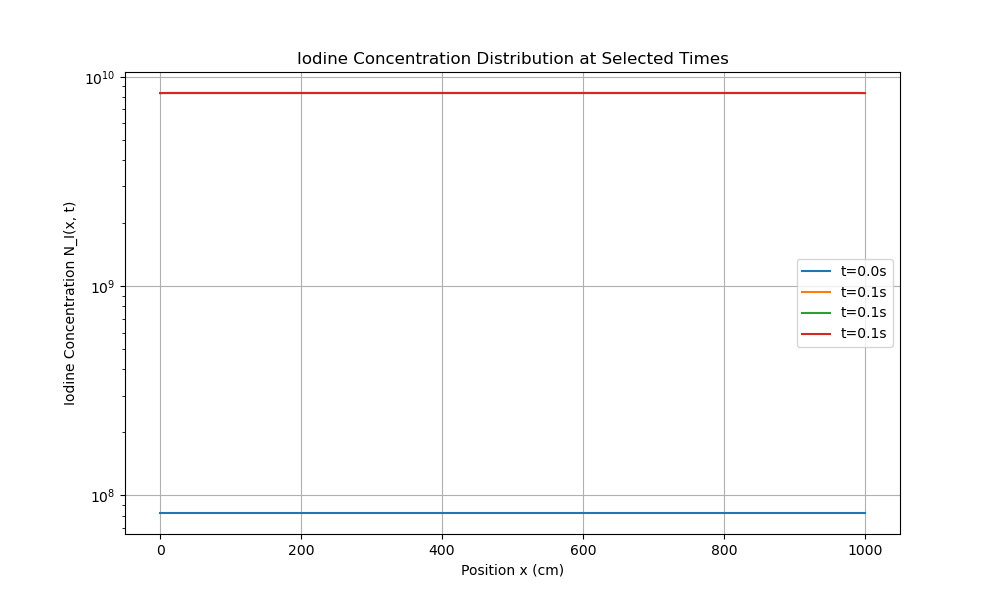
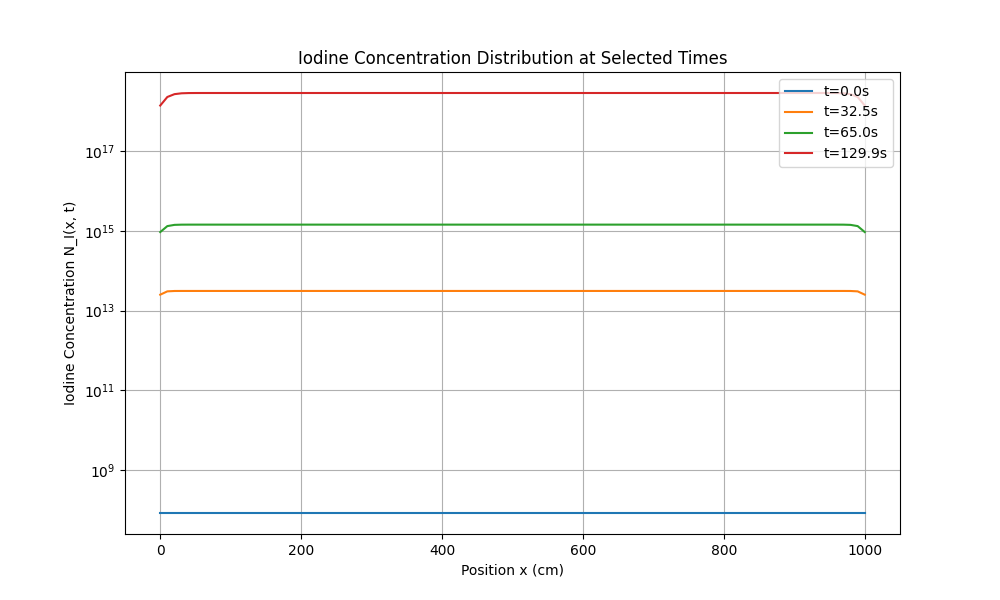
小改动

diff --git a/main.py b/main.py
@@ -9,8 +9,8 @@ logging.basicConfig(level=logging.INFO, format='%(asctime)s - %(levelname)s - %(
 
 # 参数定义
 # 空间域
-L = 1000  # 一维空间长度，单位cm
-nx = 100  # 增加空间离散点数以提高空间分辨率
+L = 100  # 一维空间长度，单位cm
+nx = 40  # 增加空间离散点数以提高空间分辨率
 dx = L / (nx - 1)
 x = np.linspace(0, L, nx)
 
@@ -29,7 +29,7 @@ gamma_Xe = 0.228e-2  # Xe-135的产额
 lambda_I = 2.87e-5   # I-135的衰变常数，s⁻¹
 lambda_Xe = 2.09e-5  # Xe-135的衰变常数，s⁻¹
 beta = 0.0065        # 缓发中子产额
-Lambda = 0.0001      # 中子寿命，s⁻¹
+Lambda = 0.0003      # 中子寿命，s⁻¹
 rho_0 = 0            # 初始反应性
 Delta_rho_Xe = 0.000  # Xe引起的反应性变化
 v = 220000               # 中子速度，cm/s
@@ -71,9 +71,8 @@ def compute_phi_derivative(phi, rho, beta, Lambda, N_Xe):
     # 计算二阶导数
     d2phi_dx2 = (phi_extended[2:] - 2 * phi_extended[1:-1] + phi_extended[:-2]) / dx**2
 
-    # 计算 dphi/dt
+    # 计算 dphi/dt ，暂时不考虑缓发中子
     dphi_dt = D * d2phi_dx2 - sigma_a_Xe * N_Xe * phi + nu * Sigma_f * phi
-    # 如果需要包含其他项，可以取消注释并调整
     # dphi_dt = (D * d2phi_dx2 - sigma_a_Xe * N_Xe * phi + nu * Sigma_f * phi 
     #            - ((rho - beta) / Lambda) * phi)
 
@@ -84,13 +83,13 @@ def iodine_xenon_dynamics(phi, N_I, N_Xe):
     dN_Xe_dt = lambda_I * N_I + gamma_Xe * Sigma_f * phi - (lambda_Xe + sigma_a_Xe * phi) * N_Xe
     return dN_I_dt, dN_Xe_dt
 
-# 收敛参数定义
-convergence_tol = 1e3  # 定义收敛的容忍度（根据问题规模调整）
-convergence_steps = 100  # 连续满足收敛条件的步数
+# 收敛参数定义，暂时没有用到，也不知道怎么用
+convergence_tol = 1e6  # 定义收敛的容忍度（根据问题规模调整）
+convergence_steps = 10  # 连续满足收敛条件的步数
 convergence_window = []  # 用于记录最近的变化量
 
 # 最大迭代步数（可根据需要调整）
-max_steps = 170000
+max_steps = 145000
 
 # 时间循环
 for t_step in range(max_steps):
@@ -110,7 +109,7 @@ for t_step in range(max_steps):
     # 数据验证
     if np.any(np.isnan(phi_new)) or np.any(np.isinf(phi_new)):
         logging.error(f'Invalid values detected in phi at time step {t_step}, time {current_time:.2f}s')
-        break  # 或者采取其他错误处理措施
+        break 
 
     if np.any(np.isnan(N_I_new)) or np.any(np.isinf(N_I_new)):
         logging.error(f'Invalid values detected in N_I at time step {t_step}, time {current_time:.2f}s')
@@ -175,11 +174,6 @@ for t_step in range(max_steps):
         time_history[current_store] = current_time
         current_store += 1
 
-    # 不稳定性检测（例如，变量超过一定范围）
-    if np.any(phi > 1e20) or np.any(N_I > 1e10) or np.any(N_Xe > 1e10):
-        logging.error(f'Variables exceeded physical limits at time step {t_step}, time {current_time:.2f}s')
-        break
-
 # 处理最后一步（如果未存储）
 if current_store < stored_steps:
     phi_history[current_store] = phi
@@ -228,7 +222,7 @@ if np.any(np.isnan(time_history)) or np.any(np.isinf(time_history)):
 
 # 选择绘图时使用的时间点
 # 例如，绘制初始、中间和结束时刻
-plot_times = [0, max_steps * delta_t / 4, max_steps * delta_t / 2, max_steps * delta_t]  
+plot_times = [0, max_steps * delta_t / 4, max_steps * delta_t / 2, max_steps * delta_t*9/10, (max_steps-1000 )* delta_t,max_steps * delta_t ]  
 
 plot_indices = []
 for t in plot_times:
@@ -243,144 +237,130 @@ output_dir = 'results'
 if not os.path.exists(output_dir):
     os.makedirs(output_dir)
 
+# 创建子图
+fig, axs = plt.subplots(3, 2, figsize=(15, 18))
+
 # 绘制中子通量φ(x, t)的分布
-plt.figure(figsize=(10, 6))
 for idx, t in zip(plot_indices, plot_times):
-    plt.plot(x, phi_history[idx], label=f't={time_history[idx]:.1f}s')
-plt.xlabel('Position x (cm)')
-plt.ylabel('Neutron Flux φ(x, t) (neutrons/cm²/s)')
-plt.yscale('log')
-plt.title('Neutron Flux Distribution at Selected Times')
-plt.legend()
-plt.grid(True)
-plt.savefig(os.path.join(output_dir, 'Neutron_Flux_Distribution_Selected_Times.png'))
-# plt.show()
+    axs[0, 0].plot(x, phi_history[idx], label=f't={time_history[idx]:.1f}s')
+axs[0, 0].set_xlabel('Position x (cm)')
+axs[0, 0].set_ylabel('Neutron Flux φ(x, t) (neutrons/cm²/s)')
+axs[0, 0].set_yscale('log')
+axs[0, 0].set_title('Neutron Flux Distribution at Selected Times')
+axs[0, 0].legend()
+axs[0, 0].grid(True)
 
 # 绘制I-135浓度分布
-plt.figure(figsize=(10, 6))
 for idx, t in zip(plot_indices, plot_times):
-    plt.plot(x, N_I_history[idx], label=f't={time_history[idx]:.1f}s')
-plt.xlabel('Position x (cm)')
-plt.ylabel('Iodine Concentration N_I(x, t)')
-plt.yscale('log')
-plt.title('Iodine Concentration Distribution at Selected Times')
-plt.legend()
-plt.grid(True)
-plt.savefig(os.path.join(output_dir, 'Iodine_Concentration_Distribution_Selected_Times.png'))
-# plt.show()
+    axs[0, 1].plot(x, N_I_history[idx], label=f't={time_history[idx]:.1f}s')
+axs[0, 1].set_xlabel('Position x (cm)')
+axs[0, 1].set_ylabel('Iodine Concentration N_I(x, t)')
+axs[0, 1].set_yscale('log')
+axs[0, 1].set_title('Iodine Concentration Distribution at Selected Times')
+axs[0, 1].legend()
+axs[0, 1].grid(True)
 
 # 绘制Xe-135浓度分布
-plt.figure(figsize=(10, 6))
 for idx, t in zip(plot_indices, plot_times):
-    plt.plot(x, N_Xe_history[idx], label=f't={time_history[idx]:.1f}s')
-plt.xlabel('Position x (cm)')
-plt.ylabel('Xenon-135 Concentration N_Xe(x, t)')
-plt.yscale('log')
-plt.title('Xenon-135 Concentration Distribution at Selected Times')
-plt.legend()
-plt.grid(True)
-plt.savefig(os.path.join(output_dir, 'Xenon135_Concentration_Distribution_Selected_Times.png'))
-# plt.show()
+    axs[1, 0].plot(x, N_Xe_history[idx], label=f't={time_history[idx]:.1f}s')
+axs[1, 0].set_xlabel('Position x (cm)')
+axs[1, 0].set_ylabel('Xenon-135 Concentration N_Xe(x, t)')
+axs[1, 0].set_yscale('log')
+axs[1, 0].set_title('Xenon-135 Concentration Distribution at Selected Times')
+axs[1, 0].legend()
+axs[1, 0].grid(True)
 
-
-# 使用热图显示随时间和空间变化的分布
 # 中子通量热图
-plt.figure(figsize=(10, 6))
 extent = [x.min(), x.max(), time_history.min(), time_history.max()]
-plt.imshow(phi_history, aspect='auto', extent=extent, origin='lower', cmap='viridis')
-plt.colorbar(label='Neutron Flux φ(x, t) (neutrons/cm²/s)')
-plt.xlabel('Position x (cm)')
-plt.ylabel('Time t (s)')
-plt.title('Neutron Flux Distribution Over Time')
-plt.savefig(os.path.join(output_dir, 'Neutron_Flux_Heatmap.png'))
-plt.show()
+im1 = axs[1, 1].imshow(phi_history, aspect='auto', extent=extent, origin='lower', cmap='viridis')
+fig.colorbar(im1, ax=axs[1, 1], label='Neutron Flux φ(x, t) (neutrons/cm²/s)')
+axs[1, 1].set_xlabel('Position x (cm)')
+axs[1, 1].set_ylabel('Time t (s)')
+axs[1, 1].set_title('Neutron Flux Distribution Over Time')
 
 # I-135浓度热图
-plt.figure(figsize=(10, 6))
-plt.imshow(N_I_history, aspect='auto', extent=extent, origin='lower', cmap='plasma')
-plt.colorbar(label='Iodine Concentration N_I(x, t)')
-plt.xlabel('Position x (cm)')
-plt.ylabel('Time t (s)')
-plt.title('Iodine Concentration Distribution Over Time')
-plt.savefig(os.path.join(output_dir, 'Iodine_Concentration_Heatmap.png'))
-plt.show()
+im2 = axs[2, 0].imshow(N_I_history, aspect='auto', extent=extent, origin='lower', cmap='plasma')
+fig.colorbar(im2, ax=axs[2, 0], label='Iodine Concentration N_I(x, t)')
+axs[2, 0].set_xlabel('Position x (cm)')
+axs[2, 0].set_ylabel('Time t (s)')
+axs[2, 0].set_title('Iodine Concentration Distribution Over Time')
 
 # Xe-135浓度热图
-plt.figure(figsize=(10, 6))
-plt.imshow(N_Xe_history, aspect='auto', extent=extent, origin='lower', cmap='inferno')
-plt.colorbar(label='Xenon-135 Concentration N_Xe(x, t)')
-plt.xlabel('Position x (cm)')
-plt.ylabel('Time t (s)')
-plt.title('Xenon-135 Concentration Distribution Over Time')
-plt.savefig(os.path.join(output_dir, 'Xenon135_Concentration_Heatmap.png'))
+im3 = axs[2, 1].imshow(N_Xe_history, aspect='auto', extent=extent, origin='lower', cmap='inferno')
+fig.colorbar(im3, ax=axs[2, 1], label='Xenon-135 Concentration N_Xe(x, t)')
+axs[2, 1].set_xlabel('Position x (cm)')
+axs[2, 1].set_ylabel('Time t (s)')
+axs[2, 1].set_title('Xenon-135 Concentration Distribution Over Time')
+
+plt.tight_layout()
+plt.savefig(os.path.join(output_dir, 'Combined_Plots.png'))
 plt.show()
 
+# # 设置全局绘图样式
+# plt.style.use('ggplot')
 
-# 设置全局绘图样式
-plt.style.use('ggplot')
+# # 创建中子通量动画
+# def create_flux_animation(x, phi_history, time_history, output_path):
+#     fig, ax = plt.subplots(figsize=(10, 6))
 
-# 创建中子通量动画
-def create_flux_animation(x, phi_history, time_history, output_path):
-    fig, ax = plt.subplots(figsize=(10, 6))
+#     def animate(i):
+#         ax.clear()
+#         ax.plot(x, phi_history[i], color='blue')
+#         ax.set_xlabel('Position x (cm)')
+#         ax.set_ylabel('Neutron Flux φ(x, t) (neutrons/cm²/s)')
+#         ax.set_yscale('log')
+#         ax.set_title(f'Neutron Flux Distribution at t={time_history[i]:.1f} s')
+#         ax.grid(True)
 
-    def animate(i):
-        ax.clear()
-        ax.plot(x, phi_history[i], color='blue')
-        ax.set_xlabel('Position x (cm)')
-        ax.set_ylabel('Neutron Flux φ(x, t) (neutrons/cm²/s)')
-        ax.set_yscale('log')
-        ax.set_title(f'Neutron Flux Distribution at t={time_history[i]:.1f} s')
-        ax.grid(True)
+#     flux_anim = animation.FuncAnimation(fig, animate, frames=len(time_history), interval=10)
+#     flux_anim.save(output_path, writer='imagemagick')
+#     plt.close(fig)
 
-    flux_anim = animation.FuncAnimation(fig, animate, frames=len(time_history), interval=10)
-    flux_anim.save(output_path, writer='imagemagick')
-    plt.close(fig)
+# # 创建I-135浓度动画
+# def create_I_concentration_animation(x, N_I_history, time_history, output_path):
+#     fig, ax = plt.subplots(figsize=(10, 6))
 
-# 创建I-135浓度动画
-def create_I_concentration_animation(x, N_I_history, time_history, output_path):
-    fig, ax = plt.subplots(figsize=(10, 6))
+#     def animate(i):
+#         ax.clear()
+#         ax.plot(x, N_I_history[i], color='green')
+#         ax.set_xlabel('Position x (cm)')
+#         ax.set_ylabel('Iodine Concentration N_I(x, t)')
+#         ax.set_yscale('log')
+#         ax.set_title(f'Iodine Concentration Distribution at t={time_history[i]:.1f} s')
+#         ax.grid(True)
 
-    def animate(i):
-        ax.clear()
-        ax.plot(x, N_I_history[i], color='green')
-        ax.set_xlabel('Position x (cm)')
-        ax.set_ylabel('Iodine Concentration N_I(x, t)')
-        ax.set_yscale('log')
-        ax.set_title(f'Iodine Concentration Distribution at t={time_history[i]:.1f} s')
-        ax.grid(True)
+#     I_anim = animation.FuncAnimation(fig, animate, frames=len(time_history), interval=10)
+#     I_anim.save(output_path, writer='imagemagick')
+#     plt.close(fig)
 
-    I_anim = animation.FuncAnimation(fig, animate, frames=len(time_history), interval=10)
-    I_anim.save(output_path, writer='imagemagick')
-    plt.close(fig)
+# # 创建Xe-135浓度动画
+# def create_Xe_concentration_animation(x, N_Xe_history, time_history, output_path):
+#     fig, ax = plt.subplots(figsize=(10, 6))
 
-# 创建Xe-135浓度动画
-def create_Xe_concentration_animation(x, N_Xe_history, time_history, output_path):
-    fig, ax = plt.subplots(figsize=(10, 6))
+#     def animate(i):
+#         ax.clear()
+#         ax.plot(x, N_Xe_history[i], color='red')
+#         ax.set_xlabel('Position x (cm)')
+#         ax.set_ylabel('Xenon-135 Concentration N_Xe(x, t)')
+#         ax.set_yscale('log')
+#         ax.set_title(f'Xenon-135 Concentration Distribution at t={time_history[i]:.1f} s')
+#         ax.grid(True)
 
-    def animate(i):
-        ax.clear()
-        ax.plot(x, N_Xe_history[i], color='red')
-        ax.set_xlabel('Position x (cm)')
-        ax.set_ylabel('Xenon-135 Concentration N_Xe(x, t)')
-        ax.set_yscale('log')
-        ax.set_title(f'Xenon-135 Concentration Distribution at t={time_history[i]:.1f} s')
-        ax.grid(True)
+#     Xe_anim = animation.FuncAnimation(fig, animate, frames=len(time_history), interval=10)
+#     Xe_anim.save(output_path, writer='imagemagick')
+#     plt.close(fig)
 
-    Xe_anim = animation.FuncAnimation(fig, animate, frames=len(time_history), interval=10)
-    Xe_anim.save(output_path, writer='imagemagick')
-    plt.close(fig)
+# # 保存动画的路径
+# flux_gif_path = os.path.join(output_dir, 'Neutron_Flux_Distribution.gif')
+# I_gif_path = os.path.join(output_dir, 'Iodine_Concentration_Distribution.gif')
+# Xe_gif_path = os.path.join(output_dir, 'Xenon135_Concentration_Distribution.gif')
 
-# 保存动画的路径
-flux_gif_path = os.path.join(output_dir, 'Neutron_Flux_Distribution.gif')
-I_gif_path = os.path.join(output_dir, 'Iodine_Concentration_Distribution.gif')
-Xe_gif_path = os.path.join(output_dir, 'Xenon135_Concentration_Distribution.gif')
+# # 创建并保存动画
+# create_flux_animation(x, phi_history, time_history, flux_gif_path)
+# create_I_concentration_animation(x, N_I_history, time_history, I_gif_path)
+# create_Xe_concentration_animation(x, N_Xe_history, time_history, Xe_gif_path)
 
-# 创建并保存动画
-create_flux_animation(x, phi_history, time_history, flux_gif_path)
-create_I_concentration_animation(x, N_I_history, time_history, I_gif_path)
-create_Xe_concentration_animation(x, N_Xe_history, time_history, Xe_gif_path)
-
-print(f"动画已保存到 {output_dir}")
+# print(f"动画已保存到 {output_dir}")
 
 
-print('Simulation and plotting completed successfully!')
+# print('Simulation and plotting completed successfully!')
